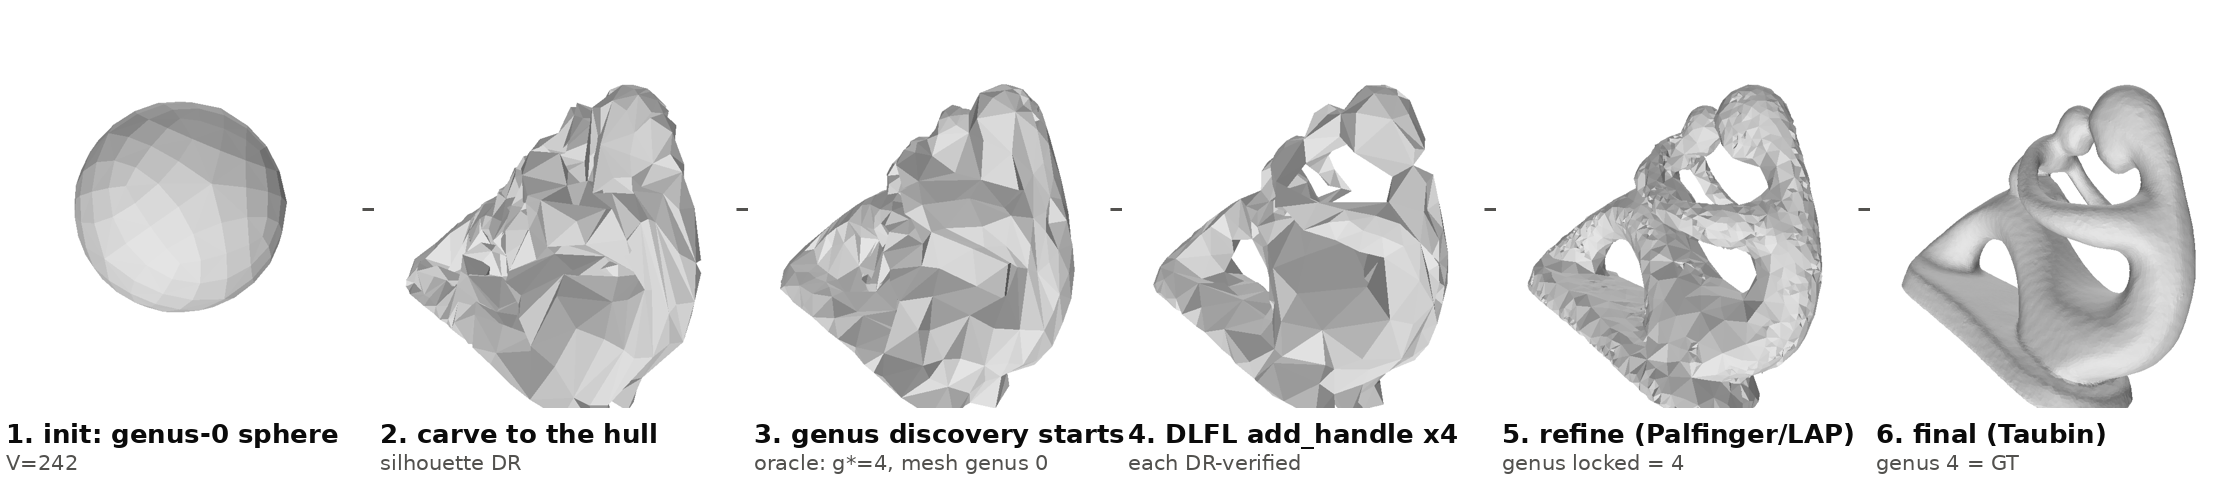
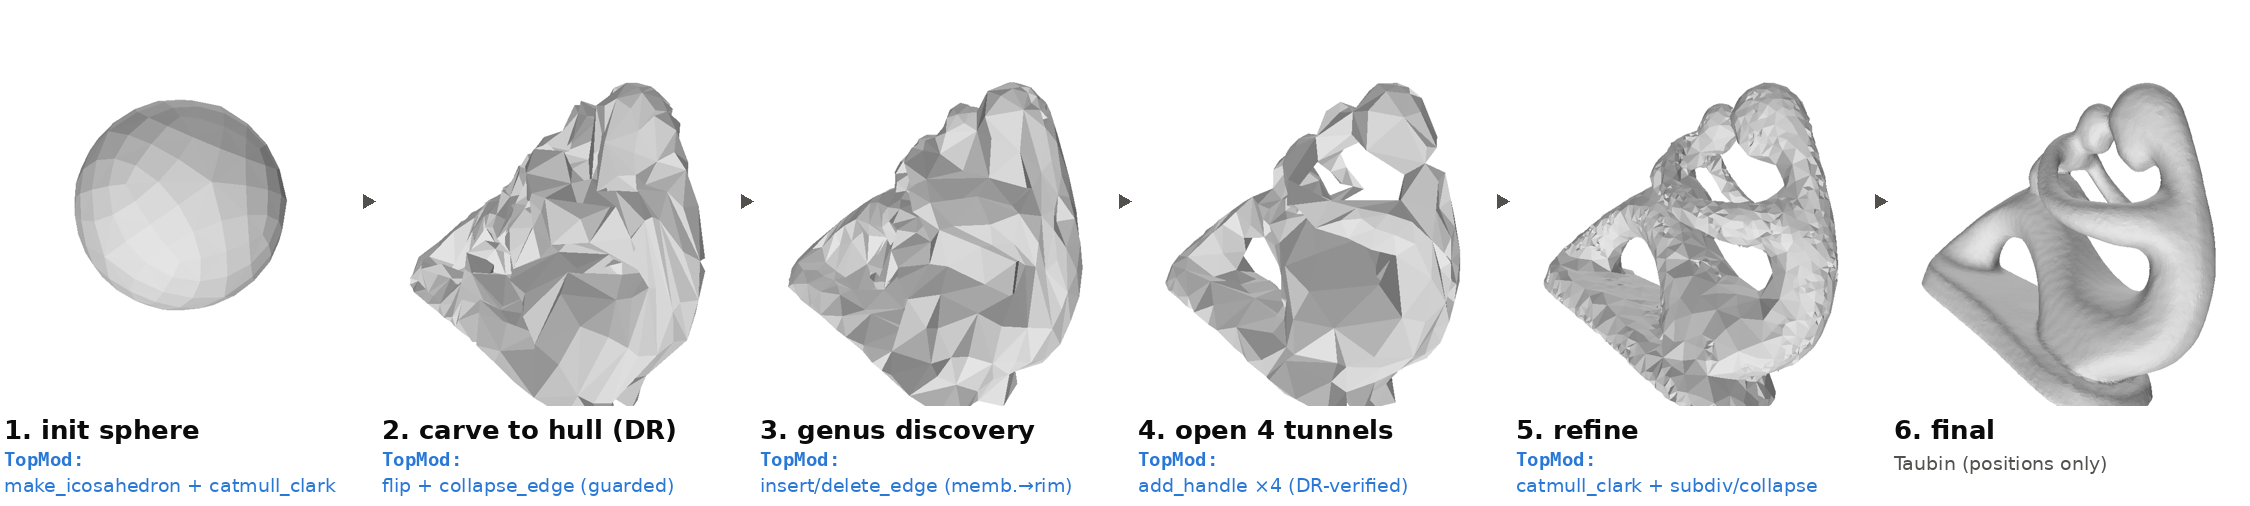
front page v3: per-stage TopMod operator annotations + fixed oracle figure + 1080p mp4s
- Evolution strip: every panel now lists the TopMod operators running at that
  stage (make_icosahedron/catmull_clark, flip/collapse, insert/delete_edge,
  add_handle, subdivide) — add_handle is the only genus-changing op.
- Oracle figure redone on the coarse genus-0 mesh: plugs now sit ON the orange
  membranes (previous version placed them over already-open tunnels).
- README: TopMod-operators-per-stage table; 1080p H.264 mp4s added.

diff --git a/README.md b/README.md
@@ -46,17 +46,27 @@ closing-ladder plug analysis gives each tunnel's **location** on demand.
 tunnel — the orange patches below are literally what the detector proposes to open:
 
 <p align="center">
-<img src="experiments/opseq_v5/despike/results_genus/fig_membrane_detect.png" width="440" alt="membrane detection"/>
-<img src="experiments/opseq_v5/despike/results_genus/fig_hull_plugs.png" width="470" alt="hull plugs"/>
+<img src="experiments/opseq_v5/despike/results_genus/fig_oracle_membranes_plugs.png" width="560" alt="oracle: membranes + tunnel plugs"/>
 </p>
 
 **3 — Propose-and-verify every handle.** Each membrane pair becomes a DLFL `add_handle` (manifold by
 construction), kept only if a count-first gate and a differentiable-render check agree. The loop
 stops exactly at g\*. When the refined mesh hugs the hull and membranes vanish, the oracle's plug
-locations (right figure — the yellow plug is a missing 4th tunnel found on a flush mesh) take over.
+locations take over (hull-guided completion).
 
-**4 — Refine with guaranteed-manifold operators only.** Link-condition-guarded collapses,
-Euler-preserving flips/subdivision, position-only DR: topological robustness holds **by
+**4 — TopMod operators run the whole pipeline, not just the topology step.** `add_handle` is the
+only *genus-changing* operator; everything else is topology-preserving TopMod machinery:
+
+| stage | TopMod operators at work |
+|---|---|
+| init | `make_icosahedron`, `catmull_clark` (coarse-to-fine levels) |
+| carve to hull (DR loop) | `flip`, `collapse_edge_tri` (link-condition guarded) |
+| genus discovery | `insert_edge`/`delete_edge` (merge a membrane into one rim polygon), `subdivide_edge` (rim alignment), **`add_handle`** (genus +1, DR-verified) |
+| refine | `catmull_clark`, `subdivide_edge`, `collapse_edge_tri`, `flip` — driven by a Palfinger-style adaptive schedule, executed as DLFL ops |
+| final | Taubin smoothing (vertex positions only — topology untouched) |
+
+Because every one of these preserves the DLFL invariants, the mesh is manifold + watertight after
+**every** step, and the genus can only change at a verified `add_handle` — robustness **by
 construction**, not by a regularizer.
 
 ## Results — genus discovered, never assumed
@@ -67,6 +77,9 @@ construction**, not by a regularizer.
 | threeholes — discovered genus **3** | kitten — discovered genus **1** |
 | <img src="experiments/opseq_v5/despike/results_genus/gifs/rockerarm_evolution_hd.gif" width="380"/> | <img src="experiments/opseq_v5/despike/results_genus/gifs/armadillo_evolution_hd.gif" width="380"/> |
 | rockerarm — discovered genus **1** | armadillo — discovered genus **0** (no false tunnels) |
+
+1080p MP4 versions of all five runs:
+[`results_genus/gifs/*_evolution_hd.mp4`](experiments/opseq_v5/despike/results_genus/gifs/)
 
 ## Comparison with prior work
 
